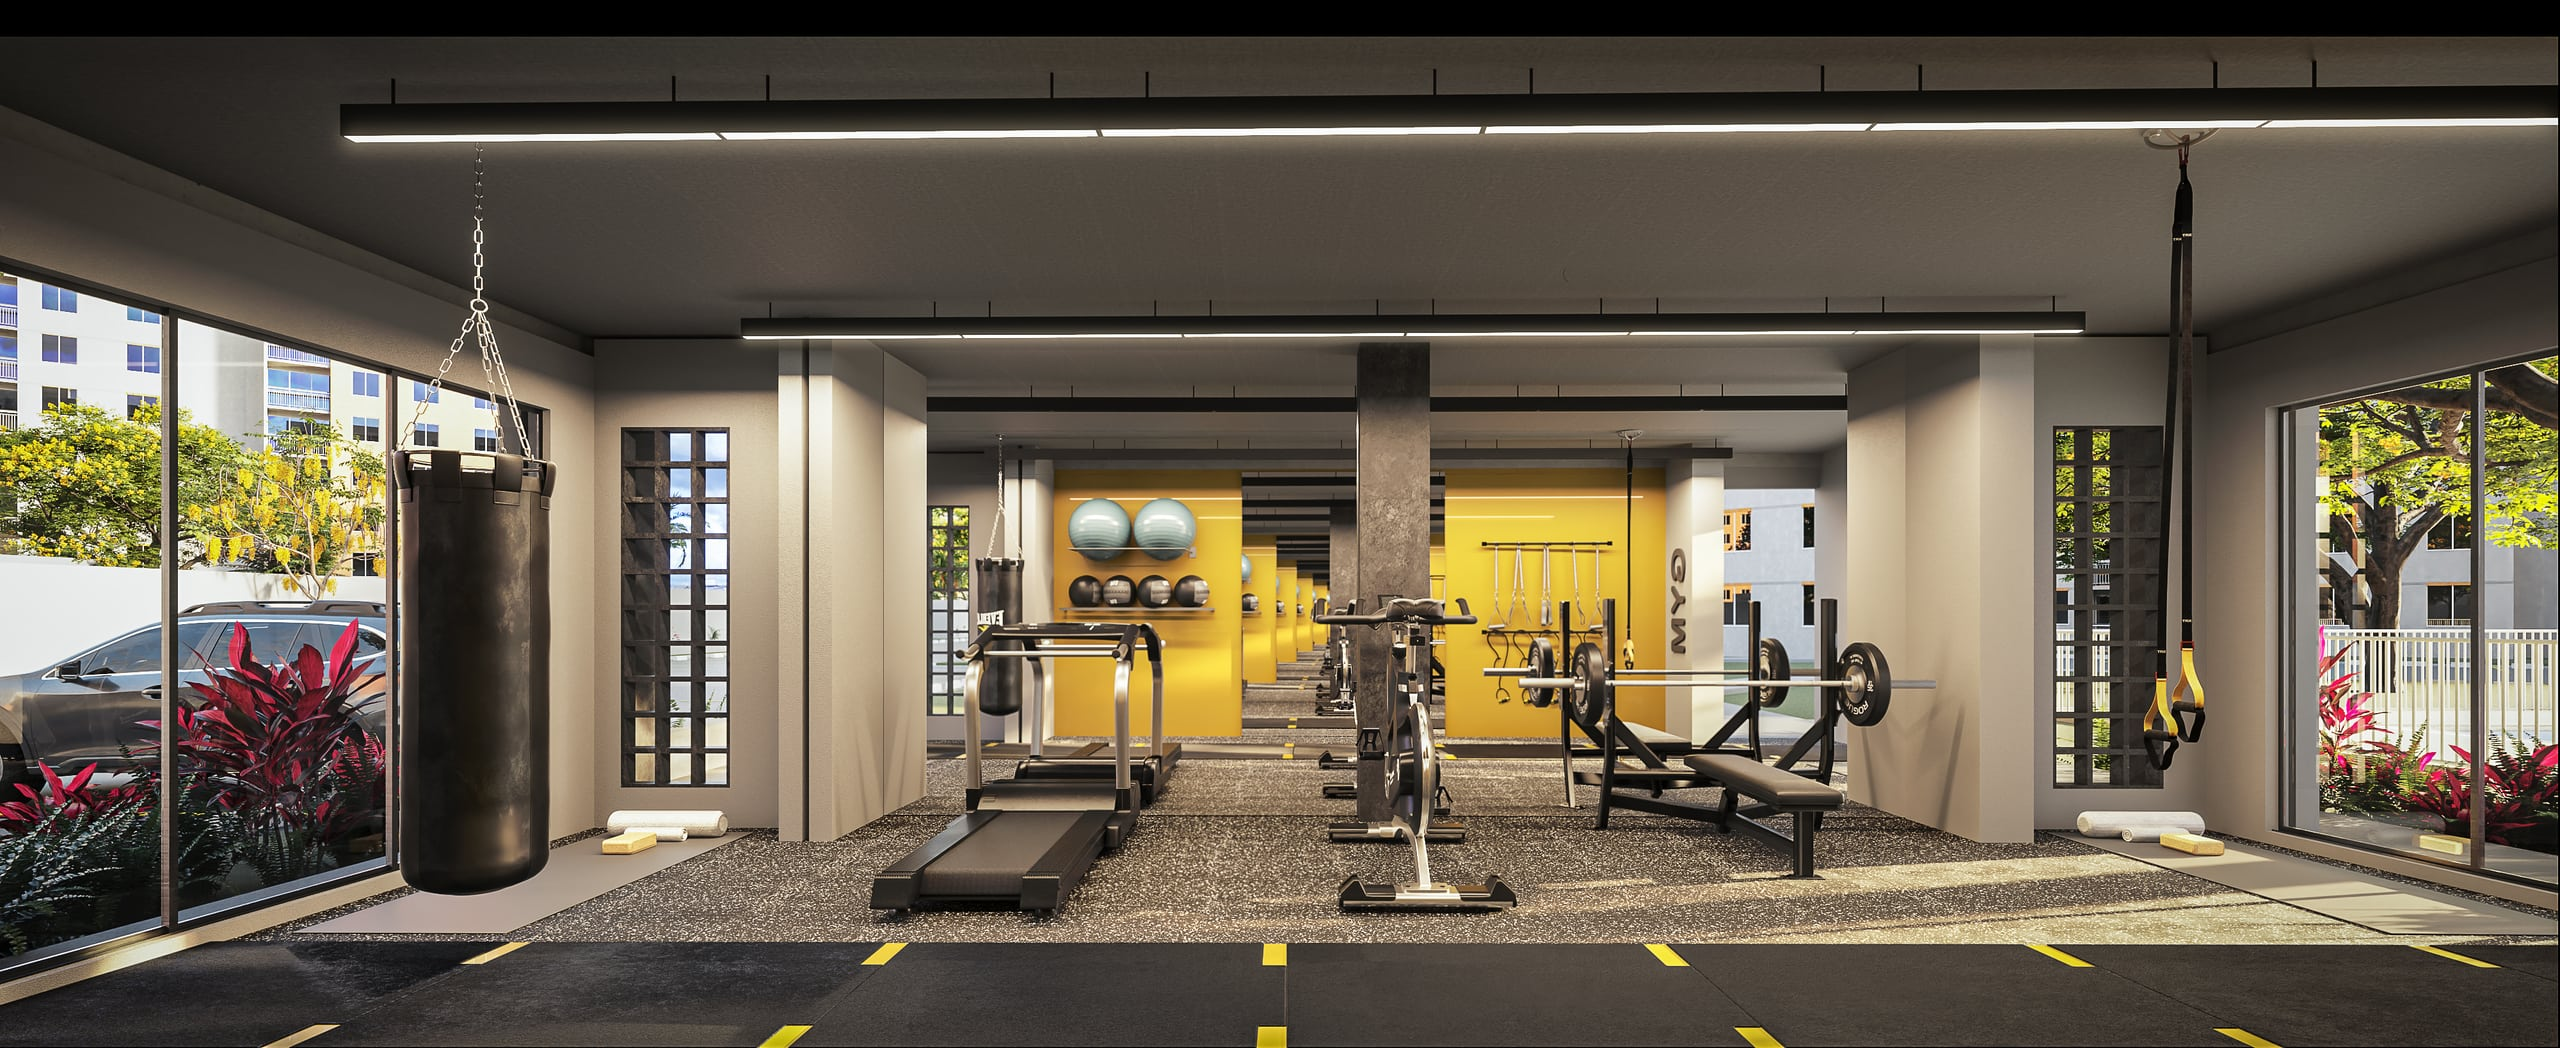
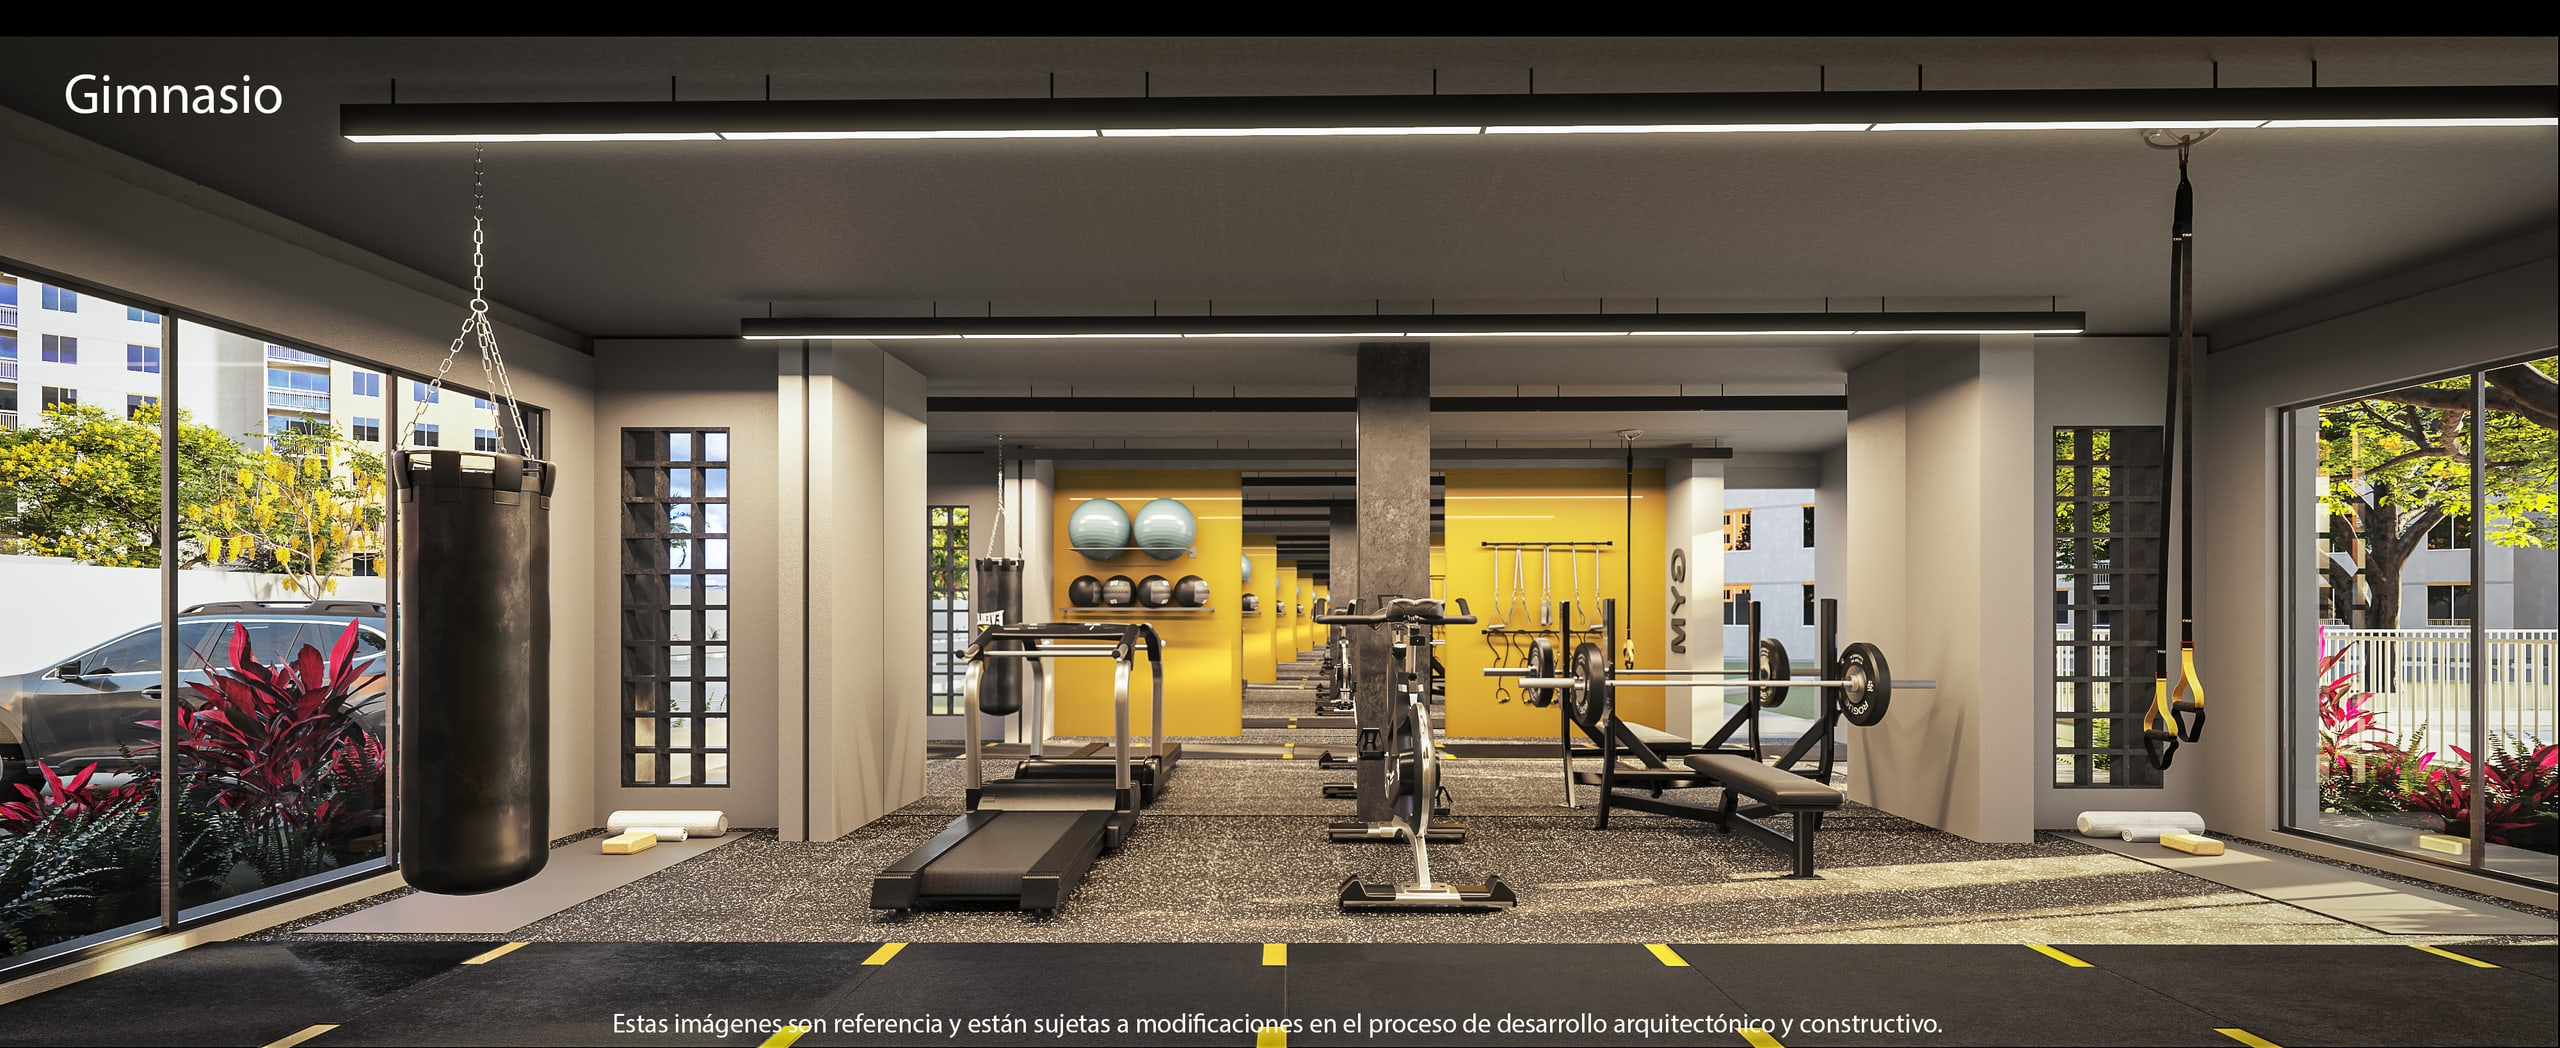
feat(galeria): reemplaza render de gimnasio y agrega Lobby y Piscina
Renders optimizados a 2560px (q86). gimnasio actualizado; nuevas entradas
lobby y piscina al final de la galeria.

Changed region(s): [[0.25, 0.9466, 0.75, 1.0], [0.0312, 0.0611, 0.125, 0.1221]]

diff --git a/src/projects/melendez/valle-alto/tour.config.ts b/src/projects/melendez/valle-alto/tour.config.ts
@@ -1012,6 +1012,8 @@ const valleAlto: TourConfig = {
     { id: 'balcon',        src: assetPath('/projects/melendez/valle-alto/images/renders/balcon.jpg'),        title: 'Balcón' },
     { id: 'zona-ropas',    src: assetPath('/projects/melendez/valle-alto/images/renders/zona-ropas.jpg'),    title: 'Zona de Ropas' },
     { id: 'gimnasio',      src: assetPath('/projects/melendez/valle-alto/images/renders/gimnasio.jpg'),      title: 'Gimnasio' },
+    { id: 'lobby',         src: assetPath('/projects/melendez/valle-alto/images/renders/lobby.jpg'),         title: 'Lobby' },
+    { id: 'piscina',       src: assetPath('/projects/melendez/valle-alto/images/renders/piscina.jpg'),       title: 'Piscina' },
   ],
 
   // ─── Plantas arquitectonicas (sin burbujas) ─────────────────────
